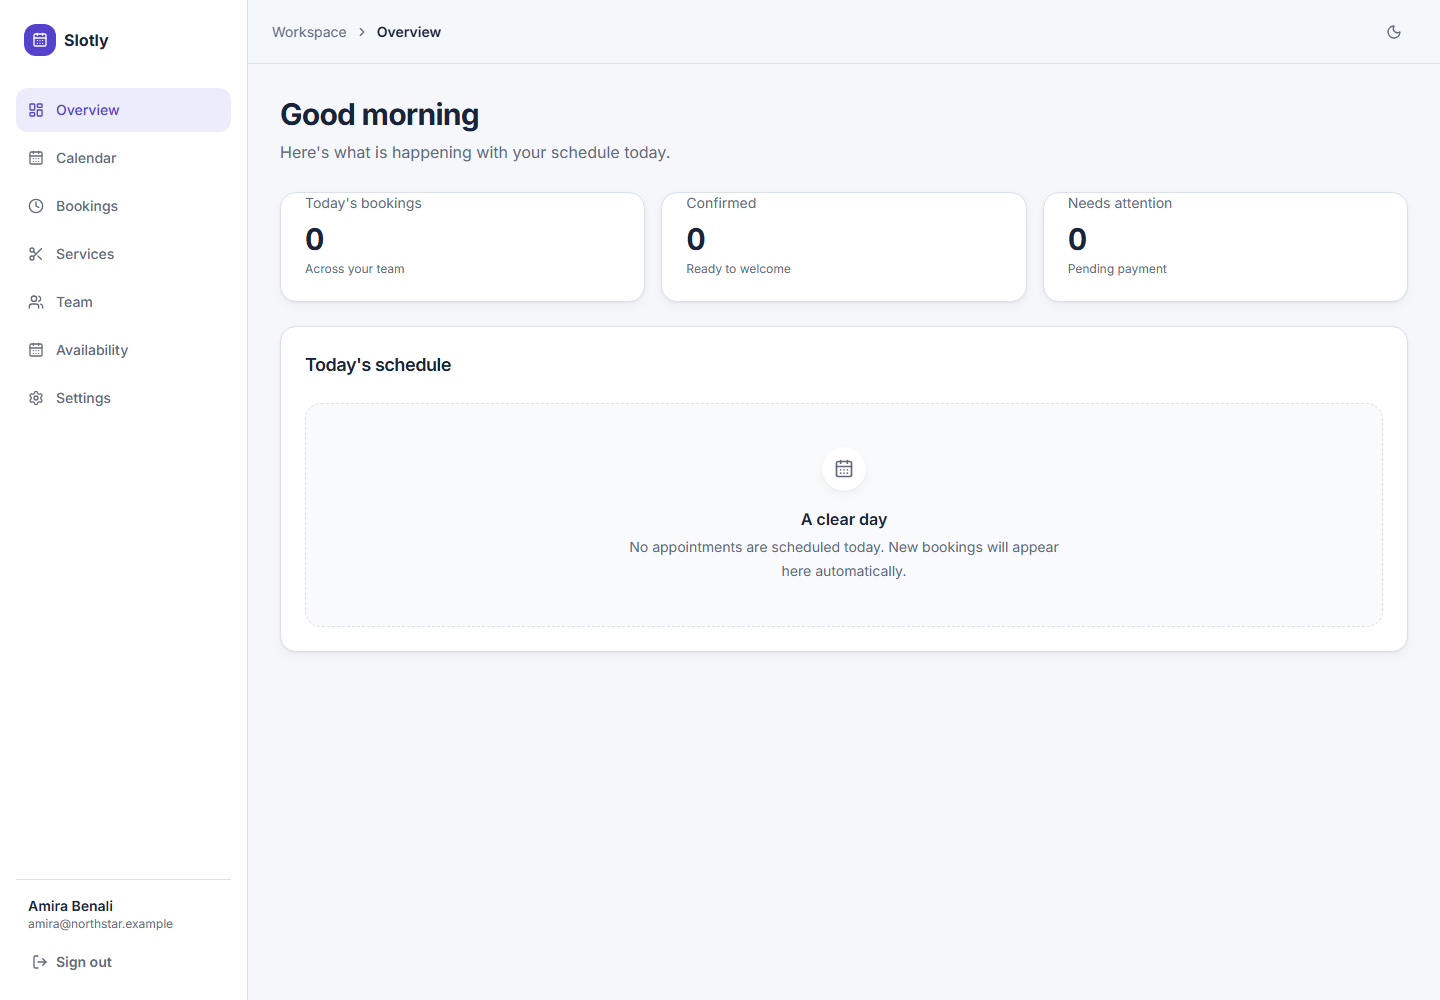
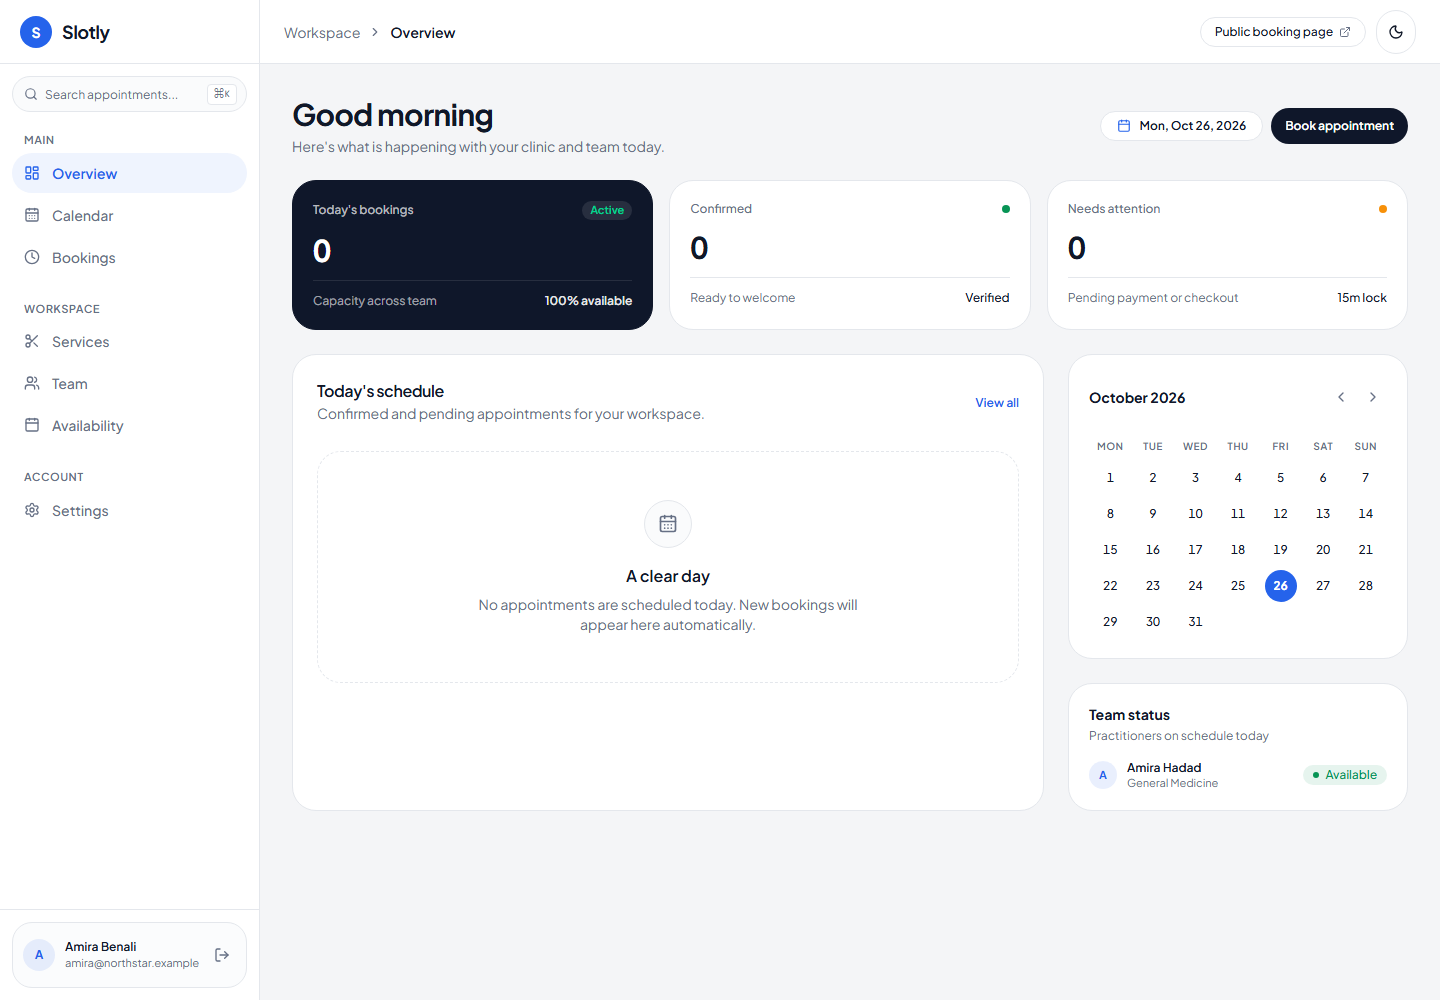
docs(ui): capture full suite of mobile and desktop screenshots across light and dark modes

diff --git a/src/slotly-web/e2e/screenshots.spec.ts b/src/slotly-web/e2e/screenshots.spec.ts
@@ -5,7 +5,7 @@ for (const theme of ["light", "dark"] as const) {
     { name: "mobile", width: 390, height: 844 },
     { name: "desktop", width: 1440, height: 1000 },
   ]) {
-    test(`capture ${viewport.name} ${theme}`, async ({ page }) => {
+    test(`capture public booking ${viewport.name} ${theme}`, async ({ page }) => {
       await page.setViewportSize(viewport);
       await page.addInitScript(
         (selected) => localStorage.setItem("theme", selected),
@@ -18,20 +18,23 @@ for (const theme of ["light", "dark"] as const) {
         fullPage: true,
       });
     });
+
+    test(`capture admin dashboard ${viewport.name} ${theme}`, async ({ page }) => {
+      await page.setViewportSize(viewport);
+      await page.addInitScript(
+        (selected) => localStorage.setItem("theme", selected),
+        theme,
+      );
+      await page.goto("/login");
+      await page.getByLabel("Workspace").fill("northstar-health");
+      await page.getByLabel("Email address").fill("amira@northstar.example");
+      await page.getByLabel("Password").fill("Password123!");
+      await page.getByRole("button", { name: "Sign in" }).click();
+      await page.getByRole("heading", { name: /Good morning/i }).waitFor();
+      await page.screenshot({
+        path: `../../docs/screenshots/admin-${viewport.name}-${theme}.png`,
+        fullPage: true,
+      });
+    });
   }
 }
-
-test("capture admin dashboard desktop light", async ({ page }) => {
-  await page.setViewportSize({ width: 1440, height: 1000 });
-  await page.goto("/login");
-  await page.getByLabel("Workspace").fill("northstar-health");
-  await page.getByLabel("Email address").fill("amira@northstar.example");
-  await page.getByLabel("Password").fill("Password123!");
-  await page.getByRole("button", { name: "Sign in" }).click();
-  await page.getByRole("heading", { name: /Good morning/i }).waitFor();
-  await page.screenshot({
-    path: `../../docs/screenshots/admin-desktop-light.png`,
-    fullPage: true,
-  });
-});
-

diff --git a/README.md b/README.md
@@ -26,11 +26,17 @@
 | :---: | :---: |
 | ![Slotly Customer Booking Light](docs/screenshots/booking-desktop-light.png) | ![Slotly Customer Booking Dark](docs/screenshots/booking-desktop-dark.png) |
 
-### Mobile First Design (390px Viewport) & Tenant Administration
+### Tenant Operations Dashboard (Desktop Light & Dark)
 
-| Mobile Customer Experience | Tenant Owner Admin Dashboard |
+| Light Theme | Dark Theme |
 | :---: | :---: |
-| <img src="docs/screenshots/booking-mobile-light.png" width="300" alt="Mobile Booking" /> | <img src="docs/screenshots/admin-desktop-light.png" width="550" alt="Admin Dashboard" /> |
+| ![Slotly Admin Dashboard Light](docs/screenshots/admin-desktop-light.png) | ![Slotly Admin Dashboard Dark](docs/screenshots/admin-desktop-dark.png) |
+
+### Mobile-First Responsive Experience (390px Viewport)
+
+| Mobile Customer Booking | Mobile Admin Operations |
+| :---: | :---: |
+| <img src="docs/screenshots/booking-mobile-light.png" width="300" alt="Mobile Booking" /> | <img src="docs/screenshots/admin-mobile-light.png" width="300" alt="Mobile Admin" /> |
 
 </div>
 
